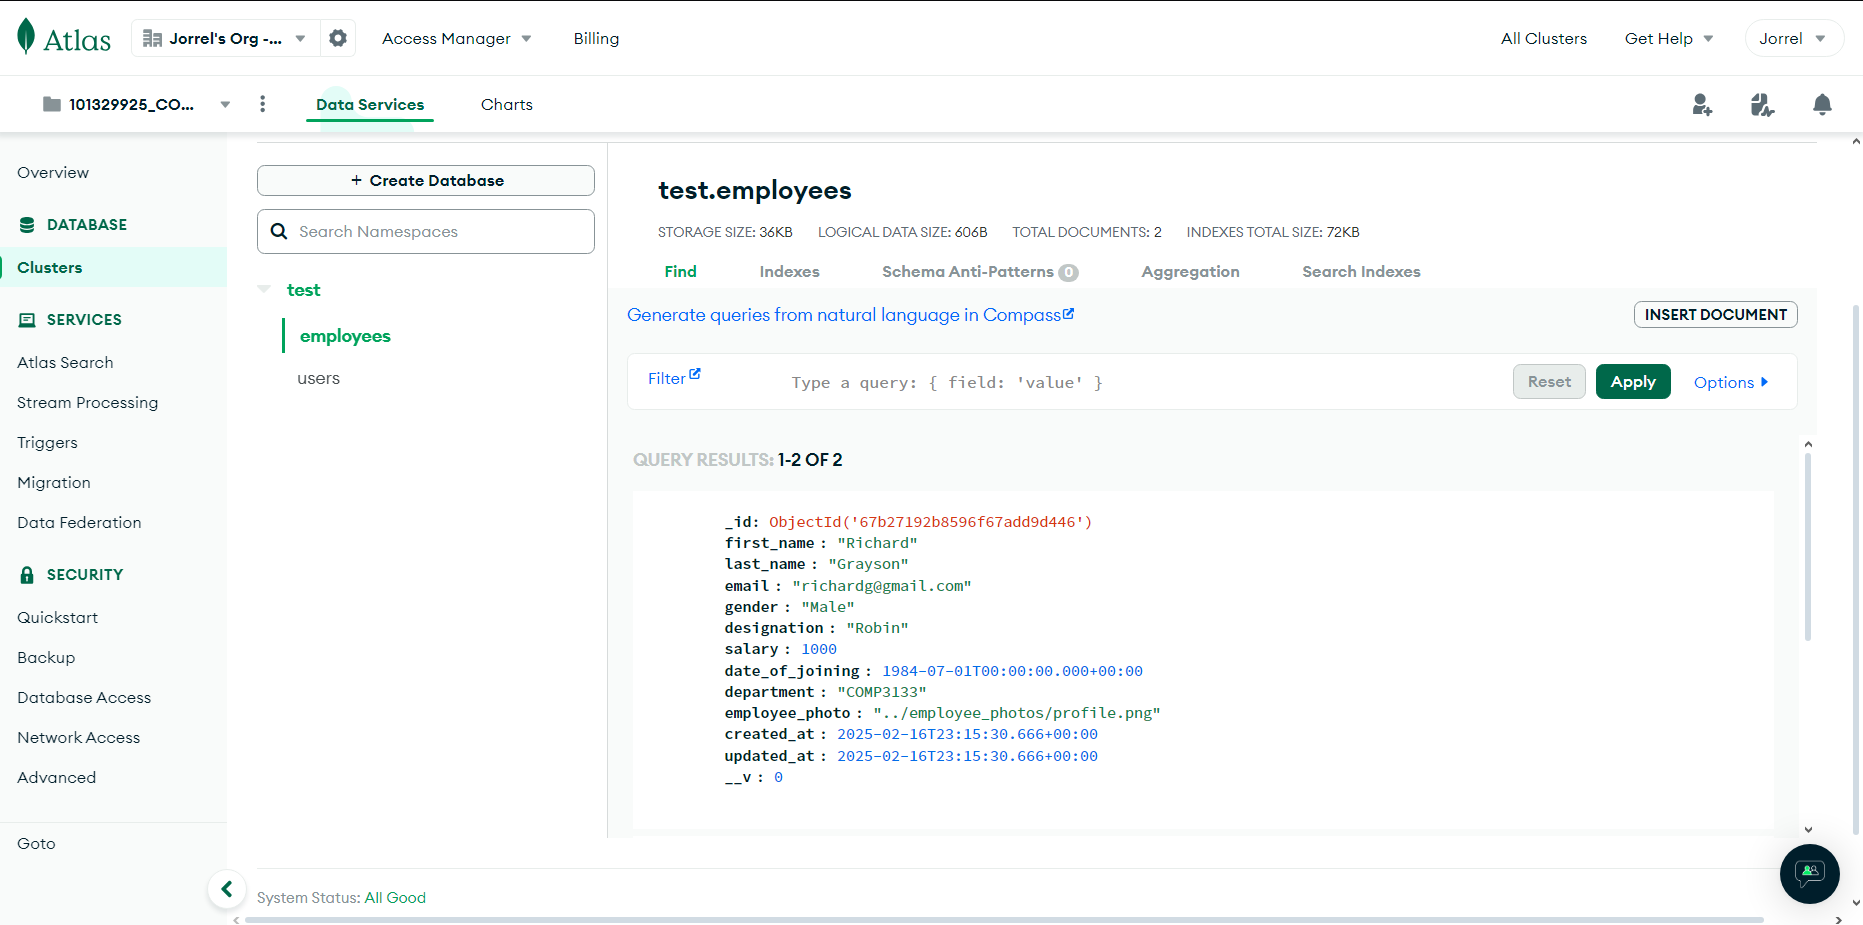
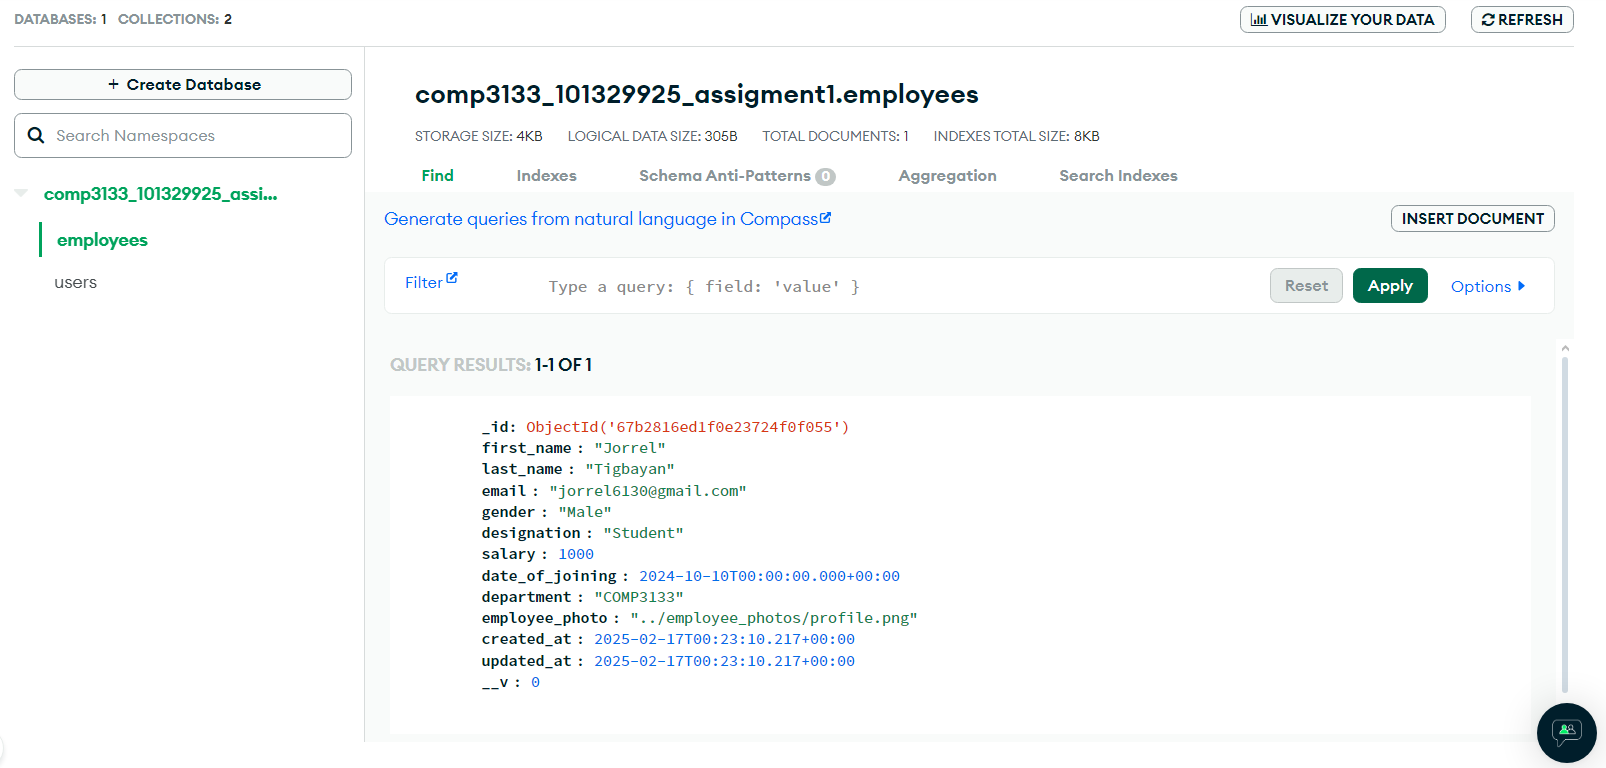
CHanged Database to match specifications in assignment

diff --git a/index.js b/index.js
@@ -204,10 +204,10 @@ app.use("/employee", employeeHTTP)
 const connectDB = async () => {
     try {
         console.log(`Attempting to connect to DB`);
-        const DB_NAME = ""
+        const DB_NAME = "comp3133_101329925_assigment1"
         const DB_USER_NAME = "jorrel6130"
-        const DB_PASSWORD = 'M2s8QblJdWZUUXOD'
-        const CLUSTER_ID = 'kua6u'
+        const DB_PASSWORD = 'sfW89wE6Jk3touOf'
+        const CLUSTER_ID = 'vd5kp'
         const DB_CONNECTION = `mongodb+srv://${DB_USER_NAME}:${DB_PASSWORD}@cluster0.${CLUSTER_ID}.mongodb.net/${DB_NAME}?retryWrites=true&w=majority&appName=Cluster0`
 
         mongoose.connect(DB_CONNECTION, {
